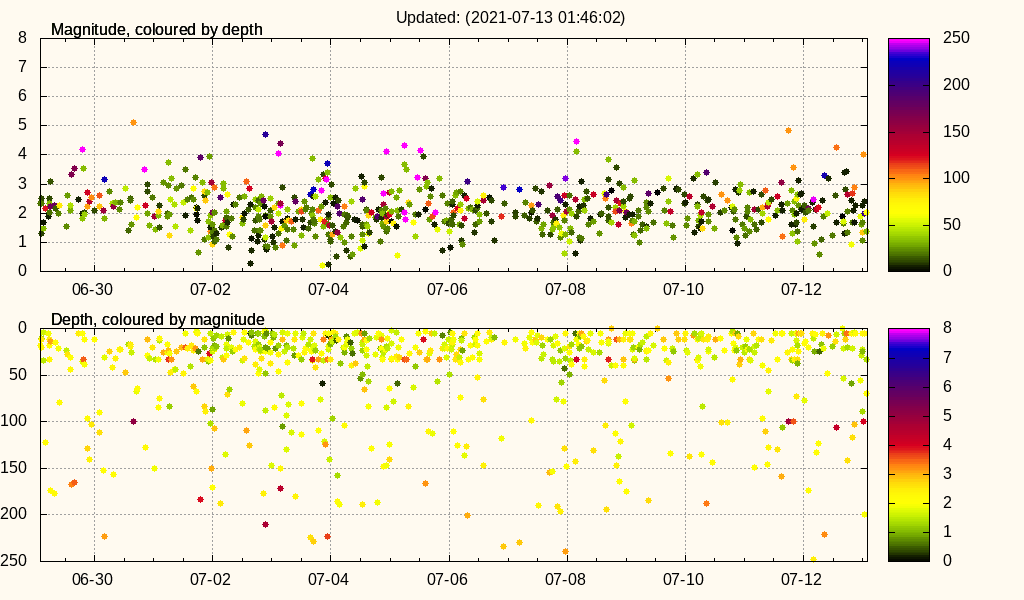
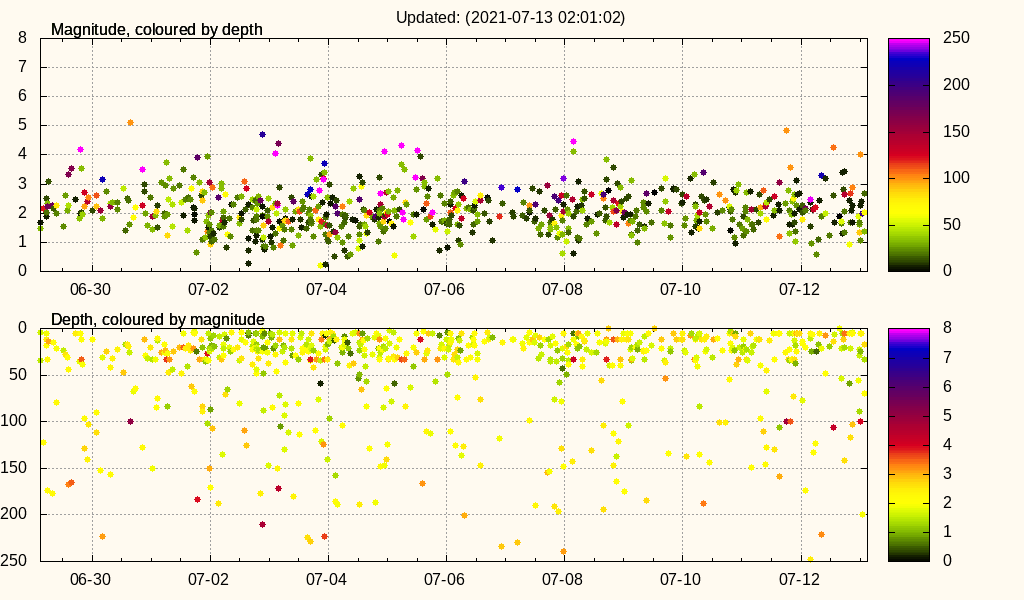
Hourly

diff --git a/x-image.html b/x-image.html
@@ -38,9 +38,9 @@ td.border { border: 1px #330000 dashed; }
 <center>[ &lt;<a href="index.html" title="Main">Main</a>&gt; | &lt;<a href="image.html" title="Here">Re-load</a>&gt; ]</center>
 <dl><dt>All images on this page are in 2 parts:</dt> <dd>The upper part displays magnitude, coloured by depth.</dd> <dd>The lower part displays depth, coloured by magnitude.</dd></dl>
 <table summary="">
-<tr><td class="border"><table summary=""><tr><th align="left">Period</th> <td>:</td> <td>1 week</td></tr> <tr><td>Creation date</td> <td>:</td> <td>2021-07-13 01:46:03</td></tr></table> <a href="x-depth-magnitude-multiplot_week_0001.png" title="1 week" target="_blank"><img src="x-depth-magnitude-multiplot_week_0001.png" alt="1 week" title="1 week" /></a></td></tr>
-<tr><td class="border"><table summary=""><tr><th align="left">Period</th> <td>:</td> <td>2 weeks</td></tr> <tr><td>Creation date</td> <td>:</td> <td>2021-07-13 01:46:03</td></tr></table> <a href="x-depth-magnitude-multiplot_week_0002.png" title="2 weeks" target="_blank"><img src="x-depth-magnitude-multiplot_week_0002.png" alt="2 weeks" title="2 weeks" /></a></td></tr>
-<tr><td class="border"><table summary=""><tr><th align="left">Period</th> <td>:</td> <td>4 weeks</td></tr> <tr><td>Creation date</td> <td>:</td> <td>2021-07-13 01:46:03</td></tr></table> <a href="x-depth-magnitude-multiplot_week_0004.png" title="4 weeks" target="_blank"><img src="x-depth-magnitude-multiplot_week_0004.png" alt="4 weeks" title="4 weeks" /></a></td></tr>
+<tr><td class="border"><table summary=""><tr><th align="left">Period</th> <td>:</td> <td>1 week</td></tr> <tr><td>Creation date</td> <td>:</td> <td>2021-07-13 02:01:03</td></tr></table> <a href="x-depth-magnitude-multiplot_week_0001.png" title="1 week" target="_blank"><img src="x-depth-magnitude-multiplot_week_0001.png" alt="1 week" title="1 week" /></a></td></tr>
+<tr><td class="border"><table summary=""><tr><th align="left">Period</th> <td>:</td> <td>2 weeks</td></tr> <tr><td>Creation date</td> <td>:</td> <td>2021-07-13 02:01:03</td></tr></table> <a href="x-depth-magnitude-multiplot_week_0002.png" title="2 weeks" target="_blank"><img src="x-depth-magnitude-multiplot_week_0002.png" alt="2 weeks" title="2 weeks" /></a></td></tr>
+<tr><td class="border"><table summary=""><tr><th align="left">Period</th> <td>:</td> <td>4 weeks</td></tr> <tr><td>Creation date</td> <td>:</td> <td>2021-07-13 02:01:03</td></tr></table> <a href="x-depth-magnitude-multiplot_week_0004.png" title="4 weeks" target="_blank"><img src="x-depth-magnitude-multiplot_week_0004.png" alt="4 weeks" title="4 weeks" /></a></td></tr>
 <tr><td class="border"><table summary=""><tr><th align="left">Period</th> <td>:</td> <td>8 weeks</td></tr> <tr><td>Creation date</td> <td>:</td> <td>2021-07-12 23:17:02</td></tr></table> <a href="x-depth-magnitude-multiplot_week_0008.png" title="8 weeks" target="_blank"><img src="x-depth-magnitude-multiplot_week_0008.png" alt="8 weeks" title="8 weeks" /></a></td></tr>
 <tr><td class="border"><table summary=""><tr><th align="left">Period</th> <td>:</td> <td>16 weeks</td></tr> <tr><td>Creation date</td> <td>:</td> <td>2021-07-12 23:17:02</td></tr></table> <a href="x-depth-magnitude-multiplot_week_0016.png" title="16 weeks" target="_blank"><img src="x-depth-magnitude-multiplot_week_0016.png" alt="16 weeks" title="16 weeks" /></a></td></tr>
 <tr><td class="border"><table summary=""><tr><th align="left">Period</th> <td>:</td> <td>64 weeks</td></tr> <tr><td>Creation date</td> <td>:</td> <td>2021-07-12 23:17:02</td></tr></table> <a href="x-depth-magnitude-multiplot_week_0064.png" title="64 weeks" target="_blank"><img src="x-depth-magnitude-multiplot_week_0064.png" alt="64 weeks" title="64 weeks" /></a></td></tr>

diff --git a/image.html b/image.html
@@ -38,9 +38,9 @@ td.border { border: 1px #330000 dashed; }
 <center>[ &lt;<a href="index.html" title="Main">Main</a>&gt; | &lt;<a href="image.html" title="Here">Re-load</a>&gt; ]</center>
 <dl><dt>All images on this page are in 2 parts:</dt> <dd>The upper part displays magnitude, coloured by depth.</dd> <dd>The lower part displays depth, coloured by magnitude.</dd></dl>
 <table summary="">
-<tr><td class="border"><table summary=""><tr><th align="left">Period</th> <td>:</td> <td>1 week</td></tr> <tr><td>Creation date</td> <td>:</td> <td>2021-07-13 01:46:03</td></tr></table> <a href="depth-magnitude-multiplot_week_0001.png" title="1 week" target="_blank"><img src="depth-magnitude-multiplot_week_0001.png" alt="1 week" title="1 week" /></a></td></tr>
-<tr><td class="border"><table summary=""><tr><th align="left">Period</th> <td>:</td> <td>2 weeks</td></tr> <tr><td>Creation date</td> <td>:</td> <td>2021-07-13 01:46:03</td></tr></table> <a href="depth-magnitude-multiplot_week_0002.png" title="2 weeks" target="_blank"><img src="depth-magnitude-multiplot_week_0002.png" alt="2 weeks" title="2 weeks" /></a></td></tr>
-<tr><td class="border"><table summary=""><tr><th align="left">Period</th> <td>:</td> <td>4 weeks</td></tr> <tr><td>Creation date</td> <td>:</td> <td>2021-07-13 01:46:03</td></tr></table> <a href="depth-magnitude-multiplot_week_0004.png" title="4 weeks" target="_blank"><img src="depth-magnitude-multiplot_week_0004.png" alt="4 weeks" title="4 weeks" /></a></td></tr>
+<tr><td class="border"><table summary=""><tr><th align="left">Period</th> <td>:</td> <td>1 week</td></tr> <tr><td>Creation date</td> <td>:</td> <td>2021-07-13 02:01:03</td></tr></table> <a href="depth-magnitude-multiplot_week_0001.png" title="1 week" target="_blank"><img src="depth-magnitude-multiplot_week_0001.png" alt="1 week" title="1 week" /></a></td></tr>
+<tr><td class="border"><table summary=""><tr><th align="left">Period</th> <td>:</td> <td>2 weeks</td></tr> <tr><td>Creation date</td> <td>:</td> <td>2021-07-13 02:01:03</td></tr></table> <a href="depth-magnitude-multiplot_week_0002.png" title="2 weeks" target="_blank"><img src="depth-magnitude-multiplot_week_0002.png" alt="2 weeks" title="2 weeks" /></a></td></tr>
+<tr><td class="border"><table summary=""><tr><th align="left">Period</th> <td>:</td> <td>4 weeks</td></tr> <tr><td>Creation date</td> <td>:</td> <td>2021-07-13 02:01:03</td></tr></table> <a href="depth-magnitude-multiplot_week_0004.png" title="4 weeks" target="_blank"><img src="depth-magnitude-multiplot_week_0004.png" alt="4 weeks" title="4 weeks" /></a></td></tr>
 <tr><td class="border"><table summary=""><tr><th align="left">Period</th> <td>:</td> <td>8 weeks</td></tr> <tr><td>Creation date</td> <td>:</td> <td>2021-07-12 23:17:02</td></tr></table> <a href="depth-magnitude-multiplot_week_0008.png" title="8 weeks" target="_blank"><img src="depth-magnitude-multiplot_week_0008.png" alt="8 weeks" title="8 weeks" /></a></td></tr>
 <tr><td class="border"><table summary=""><tr><th align="left">Period</th> <td>:</td> <td>16 weeks</td></tr> <tr><td>Creation date</td> <td>:</td> <td>2021-07-12 23:17:02</td></tr></table> <a href="depth-magnitude-multiplot_week_0016.png" title="16 weeks" target="_blank"><img src="depth-magnitude-multiplot_week_0016.png" alt="16 weeks" title="16 weeks" /></a></td></tr>
 <tr><td class="border"><table summary=""><tr><th align="left">Period</th> <td>:</td> <td>64 weeks</td></tr> <tr><td>Creation date</td> <td>:</td> <td>2021-07-12 23:17:02</td></tr></table> <a href="depth-magnitude-multiplot_week_0064.png" title="64 weeks" target="_blank"><img src="depth-magnitude-multiplot_week_0064.png" alt="64 weeks" title="64 weeks" /></a></td></tr>

diff --git a/index.html b/index.html
@@ -65,12 +65,20 @@ td.depth { text-align: right; }
 </tr>
 <tr>
 	 <td align="left">&nbsp;</td> 
-	 <td align="left">01:46:01 am</td> 
-	 <td align="right">2:47</td> 
+	 <td align="left">02:01:01 am</td> 
+	 <td align="right">11:47</td> 
 	 <td colspan="3">&nbsp;</td> 
 </tr>
 <tr>
 	 <td align="left">2021-07-13</td> 
+	 <td align="left">01:49:14 am</td> 
+	 <td align="right">6:00</td> 
+	 <td class="magnitude06">2.68</td> 
+	 <td class="depth">16.95</td> 
+	 <td align="right"><a href="http://www.geonet.org.nz/quakes/region/newzealand/2021p520475" title="2021p520475" target="_blank" class="publicid">15 km north of Napier</a></td> 
+</tr>
+<tr>
+	 <td align="left">&nbsp;</td> 
 	 <td align="left">01:43:14 am</td> 
 	 <td align="right">5:42</td> 
 	 <td class="magnitude03">1.38</td> 
@@ -440,26 +448,10 @@ td.depth { text-align: right; }
 <tr>
 	 <td align="left">&nbsp;</td> 
 	 <td align="left">03:51:11 am</td> 
-	 <td align="right">1:50:50</td> 
+	 <td align="right">0</td> 
 	 <td class="magnitude05">2.38</td> 
 	 <td class="depth">5.00</td> 
 	 <td align="right"><a href="http://www.geonet.org.nz/quakes/region/newzealand/2021p518001" title="2021p518001" target="_blank" class="publicid">70 km north-west of Te Kaha</a></td> 
-</tr>
-<tr>
-	 <td align="left">&nbsp;</td> 
-	 <td align="left">02:00:21 am</td> 
-	 <td align="right">4:59</td> 
-	 <td class="magnitude05">2.10</td> 
-	 <td class="depth">20.78</td> 
-	 <td align="right"><a href="http://www.geonet.org.nz/quakes/region/newzealand/2021p517793" title="2021p517793" target="_blank" class="publicid">40 km south of Porangahau</a></td> 
-</tr>
-<tr>
-	 <td align="left">&nbsp;</td> 
-	 <td align="left">01:55:22 am</td> 
-	 <td align="right">0</td> 
-	 <td class="magnitude05">2.16</td> 
-	 <td class="depth">173.77</td> 
-	 <td align="right"><a href="http://www.geonet.org.nz/quakes/region/newzealand/2021p517784" title="2021p517784" target="_blank" class="publicid">20 km south of Tauranga</a></td> 
 </tr>
 </table>
 
